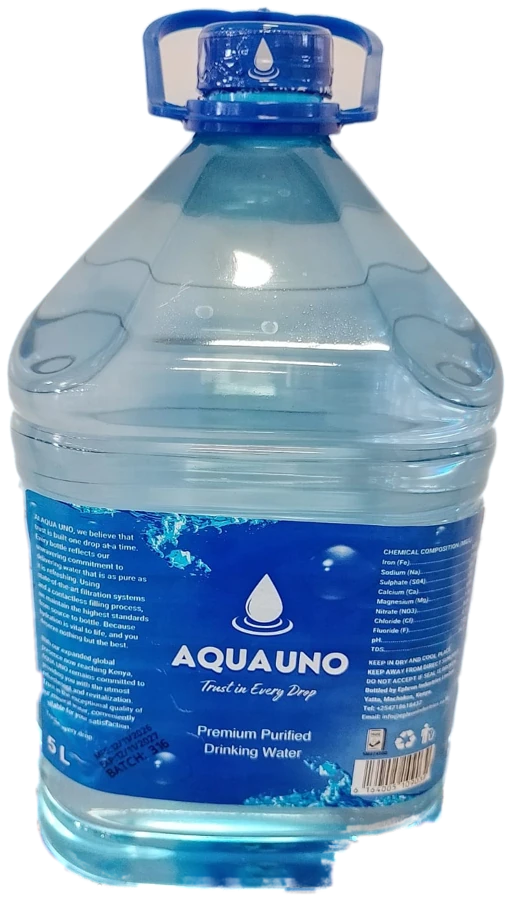
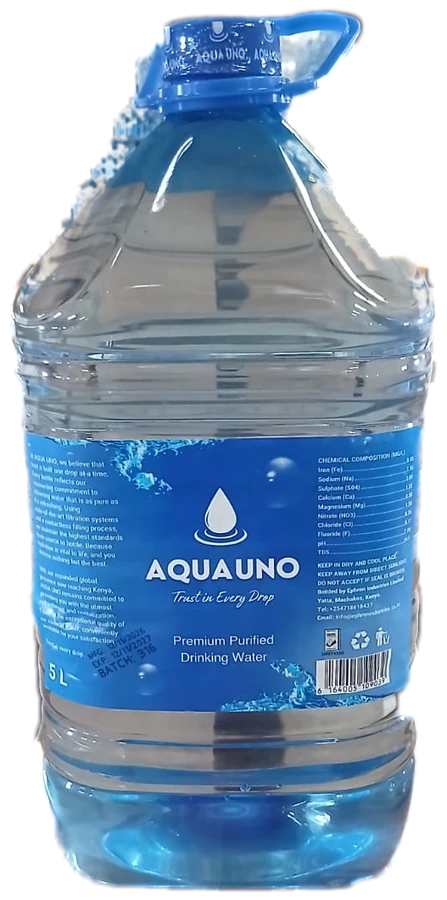
Updated prices (one-way 18.9 L KSh 400, 10 L KSh 220), 5 L now a 2-bottle pack at KSh 440, cleaner cutouts from new photos
Claude-Session: https://claude.ai/code/session_01WwV5TBn7GugJHYxiTecRKM

diff --git a/src/components/Hero.tsx b/src/components/Hero.tsx
@@ -5,6 +5,7 @@ import cutRefill from '../assets/cutouts/refill.webp';
 import cutOneWay from '../assets/cutouts/oneway.webp';
 import cut10L from '../assets/cutouts/l10.webp';
 import cut5L from '../assets/cutouts/l5.webp';
+import cut5LPack from '../assets/cutouts/l5pack.webp';
 import cutPack1L from '../assets/cutouts/pack1l.webp';
 import cutPack500 from '../assets/cutouts/pack500.webp';
 
@@ -19,6 +20,7 @@ export const cutouts = {
   oneway: cutOneWay,
   l10: cut10L,
   l5: cut5L,
+  l5pack: cut5LPack,
   pack1l: cutPack1L,
   pack500: cutPack500,
 };
@@ -38,7 +40,7 @@ export const heroSlides: Slide[] = [
   { key: 'refill', productId: 'prod-20l', tag: 'Returnable', num: '18.9', unit: 'L', title: 'The Returnable Bottle', text: 'Heavy-duty and refillable. Made for homes, offices, schools and clinics.', bg: 'linear-gradient(135deg,#b9efff 0%,#e9fbff 55%,#ffffff 100%)' },
   { key: 'oneway', productId: 'prod-18l-disposable', tag: 'One-Way', num: '18.9', unit: 'L', title: 'The One-Way Bottle', text: 'Same big volume, no deposit and no return. Perfect for events and sites.', bg: 'linear-gradient(135deg,#c9e4ff 0%,#eaf4ff 60%,#fff 100%)' },
   { key: 'l10', productId: 'prod-10l', tag: 'Family', num: '10', unit: 'L', title: 'The 10 Litre Container', text: 'Compact enough for the kitchen counter. Sealed with a branded cap.', bg: 'linear-gradient(135deg,#bff3e8 0%,#e8fbf7 60%,#fff 100%)' },
-  { key: 'l5', productId: 'prod-5l', tag: 'Everyday', num: '5', unit: 'L', title: 'The 5 Litre Bottle', text: 'A carry handle for the table, the kitchen and the road.', bg: 'linear-gradient(135deg,#d3ecff 0%,#f0f8ff 60%,#fff 100%)' },
+  { key: 'l5pack', productId: 'prod-5l', tag: 'Everyday', num: '2×5', unit: 'L', title: 'The 5 Litre Pack', text: 'Two 5 litre bottles wrapped together, with carry handles for the table, the kitchen and the road.', bg: 'linear-gradient(135deg,#d3ecff 0%,#f0f8ff 60%,#fff 100%)' },
   { key: 'pack1l', productId: 'prod-1l-pack', tag: 'Active', num: '12×1', unit: 'L', title: 'The 1 Litre Pack', text: 'Twelve bottles for the gym bag, the field trip and the desk.', bg: 'linear-gradient(135deg,#aeeaff 0%,#e6faff 60%,#fff 100%)' },
   { key: 'pack500', productId: 'prod-500ml-pack', tag: 'Events', num: '24×500', unit: 'ml', title: 'The 500 ml Case', text: 'Twenty-four compact bottles for boardrooms, weddings and conferences.', bg: 'linear-gradient(135deg,#b7d4ff 0%,#e6efff 60%,#fff 100%)' },
 ];

diff --git a/src/data/waterData.ts b/src/data/waterData.ts
@@ -118,7 +118,7 @@ export const PRODUCTS: Product[] = [
     name: 'One-Way 18.9 Litre Bottle',
     size: '18.9 Litres',
     category: 'dispenser',
-    price: 1300,
+    price: 400,
     description: 'The Aqua Uno 18.9L one-way PET bottle in a swirl-ribbed design. No deposit and no returns, ideal for events, sites and occasional dispenser use.',
     bestFor: 'Events, Sites, Occasional Dispenser Use',
     features: [
@@ -135,7 +135,7 @@ export const PRODUCTS: Product[] = [
     name: '10 Litre Family Container',
     size: '10 Litres',
     category: 'dispenser',
-    price: 400,
+    price: 220,
     description: 'The versatile Aqua Uno 10-Litre bottle with an ergonomic heavy-duty carry handle. Compact enough for kitchen countertops and pantry storage while providing ample hydration.',
     bestFor: 'Apartments, Small Families, Dining Rooms & Travel',
     features: [
@@ -150,11 +150,11 @@ export const PRODUCTS: Product[] = [
   },
   {
     id: 'prod-5l',
-    name: '5 Litre Family Bottle',
-    size: '5 Litres',
+    name: '5 Litre Pack (2 Bottles)',
+    size: '2 × 5 Litres',
     category: 'bottles',
     price: 440,
-    description: 'Convenient 5-litre Aqua Uno container with sturdy blue carry handle. Perfect for family kitchens, dining tables, camping trips, and boiling crystal-clear tea and coffee.',
+    description: 'Two 5-litre Aqua Uno bottles, shrink-wrapped together with sturdy blue carry handles. Perfect for family kitchens, dining tables, camping trips, and boiling crystal-clear tea and coffee.',
     bestFor: 'Family Kitchens, Camping, Cottages & Cooking',
     features: [
       'Heavy-duty molded carry handle',

diff --git a/src/components/home.css b/src/components/home.css
@@ -33,6 +33,7 @@
 .aq-home .p-refill,.aq-home .p-oneway{height:min(66vh,540px)}
 .aq-home .p-l10{height:min(60vh,500px)}
 .aq-home .p-l5{height:min(56vh,470px)}
+.aq-home .p-l5pack{height:min(52vh,430px)}
 .aq-home .p-ml500{height:min(58vh,480px)}
 .aq-home .p-pack1l{width:min(100%,560px)}
 .aq-home .p-pack500{width:min(100%,600px)}
@@ -105,7 +106,7 @@
 @media(max-width:860px){.aq-home .sc{grid-template-columns:1fr;grid-template-rows:auto 1fr;gap:6px;padding-top:80px;padding-bottom:128px;text-align:center}
 .aq-home .stage{order:-1;height:100%;min-height:0}
 .aq-home .prod{max-height:100%}
-.aq-home .p-refill,.aq-home .p-oneway,.aq-home .p-l10,.aq-home .p-l5,.aq-home .p-ml500{height:min(30vh,250px)}
+.aq-home .p-refill,.aq-home .p-oneway,.aq-home .p-l10,.aq-home .p-l5,.aq-home .p-l5pack,.aq-home .p-ml500{height:min(30vh,250px)}
 .aq-home .p-pack1l,.aq-home .p-pack500{width:min(80%,320px)}
 .aq-home .sub{margin-inline:auto;font-size:15px}
 .aq-home .cta{justify-content:center}

diff --git a/src/components/HomeShowcase.tsx b/src/components/HomeShowcase.tsx
@@ -10,14 +10,14 @@ const TILES: { id: string; key: keyof typeof cutouts; badge: string }[] = [
   { id: 'prod-20l', key: 'refill', badge: '18.9 L' },
   { id: 'prod-18l-disposable', key: 'oneway', badge: '18.9 L' },
   { id: 'prod-10l', key: 'l10', badge: '10 L' },
-  { id: 'prod-5l', key: 'l5', badge: '5 L' },
+  { id: 'prod-5l', key: 'l5pack', badge: '2 × 5 L' },
   { id: 'prod-1l-pack', key: 'pack1l', badge: '12 × 1 L' },
   { id: 'prod-500ml-pack', key: 'pack500', badge: '24 × 500 ml' },
 ];
 
 const LINEUP: { key: keyof typeof cutouts; label: string; h: number }[] = [
   { key: 'pack500', label: '500 ml case (24)', h: 0.34 },
-  { key: 'l5', label: '5 L', h: 0.58 },
+  { key: 'l5', label: '5 L bottle', h: 0.58 },
   { key: 'l10', label: '10 L', h: 0.78 },
   { key: 'oneway', label: '18.9 L one-way', h: 1 },
   { key: 'refill', label: '18.9 L refill', h: 1 },

diff --git a/src/components/Footer.tsx b/src/components/Footer.tsx
@@ -43,7 +43,7 @@ export const Footer: React.FC = () => {
                 <a href="/products#products" className="hover:text-sky-300 transition-colors">10L Family Container</a>
               </li>
               <li>
-                <a href="/products#products" className="hover:text-sky-300 transition-colors">5L Family Bottle</a>
+                <a href="/products#products" className="hover:text-sky-300 transition-colors">5L Pack (2 Bottles)</a>
               </li>
               <li>
                 <a href="/products#products" className="hover:text-sky-300 transition-colors">1 Litre Pack (12)</a>

diff --git a/src/components/ProductsSection.tsx b/src/components/ProductsSection.tsx
@@ -9,7 +9,7 @@ const CUTOUT: Record<string, keyof typeof cutouts> = {
   'prod-20l': 'refill',
   'prod-18l-disposable': 'oneway',
   'prod-10l': 'l10',
-  'prod-5l': 'l5',
+  'prod-5l': 'l5pack',
   'prod-1l-pack': 'pack1l',
   'prod-500ml-pack': 'pack500',
 };
@@ -18,7 +18,7 @@ const NUMERALS: Record<string, string> = {
   'prod-20l': '18.9',
   'prod-18l-disposable': '18.9',
   'prod-10l': '10',
-  'prod-5l': '5',
+  'prod-5l': '2×5',
   'prod-1l-pack': '1',
   'prod-500ml-pack': '500',
 };
